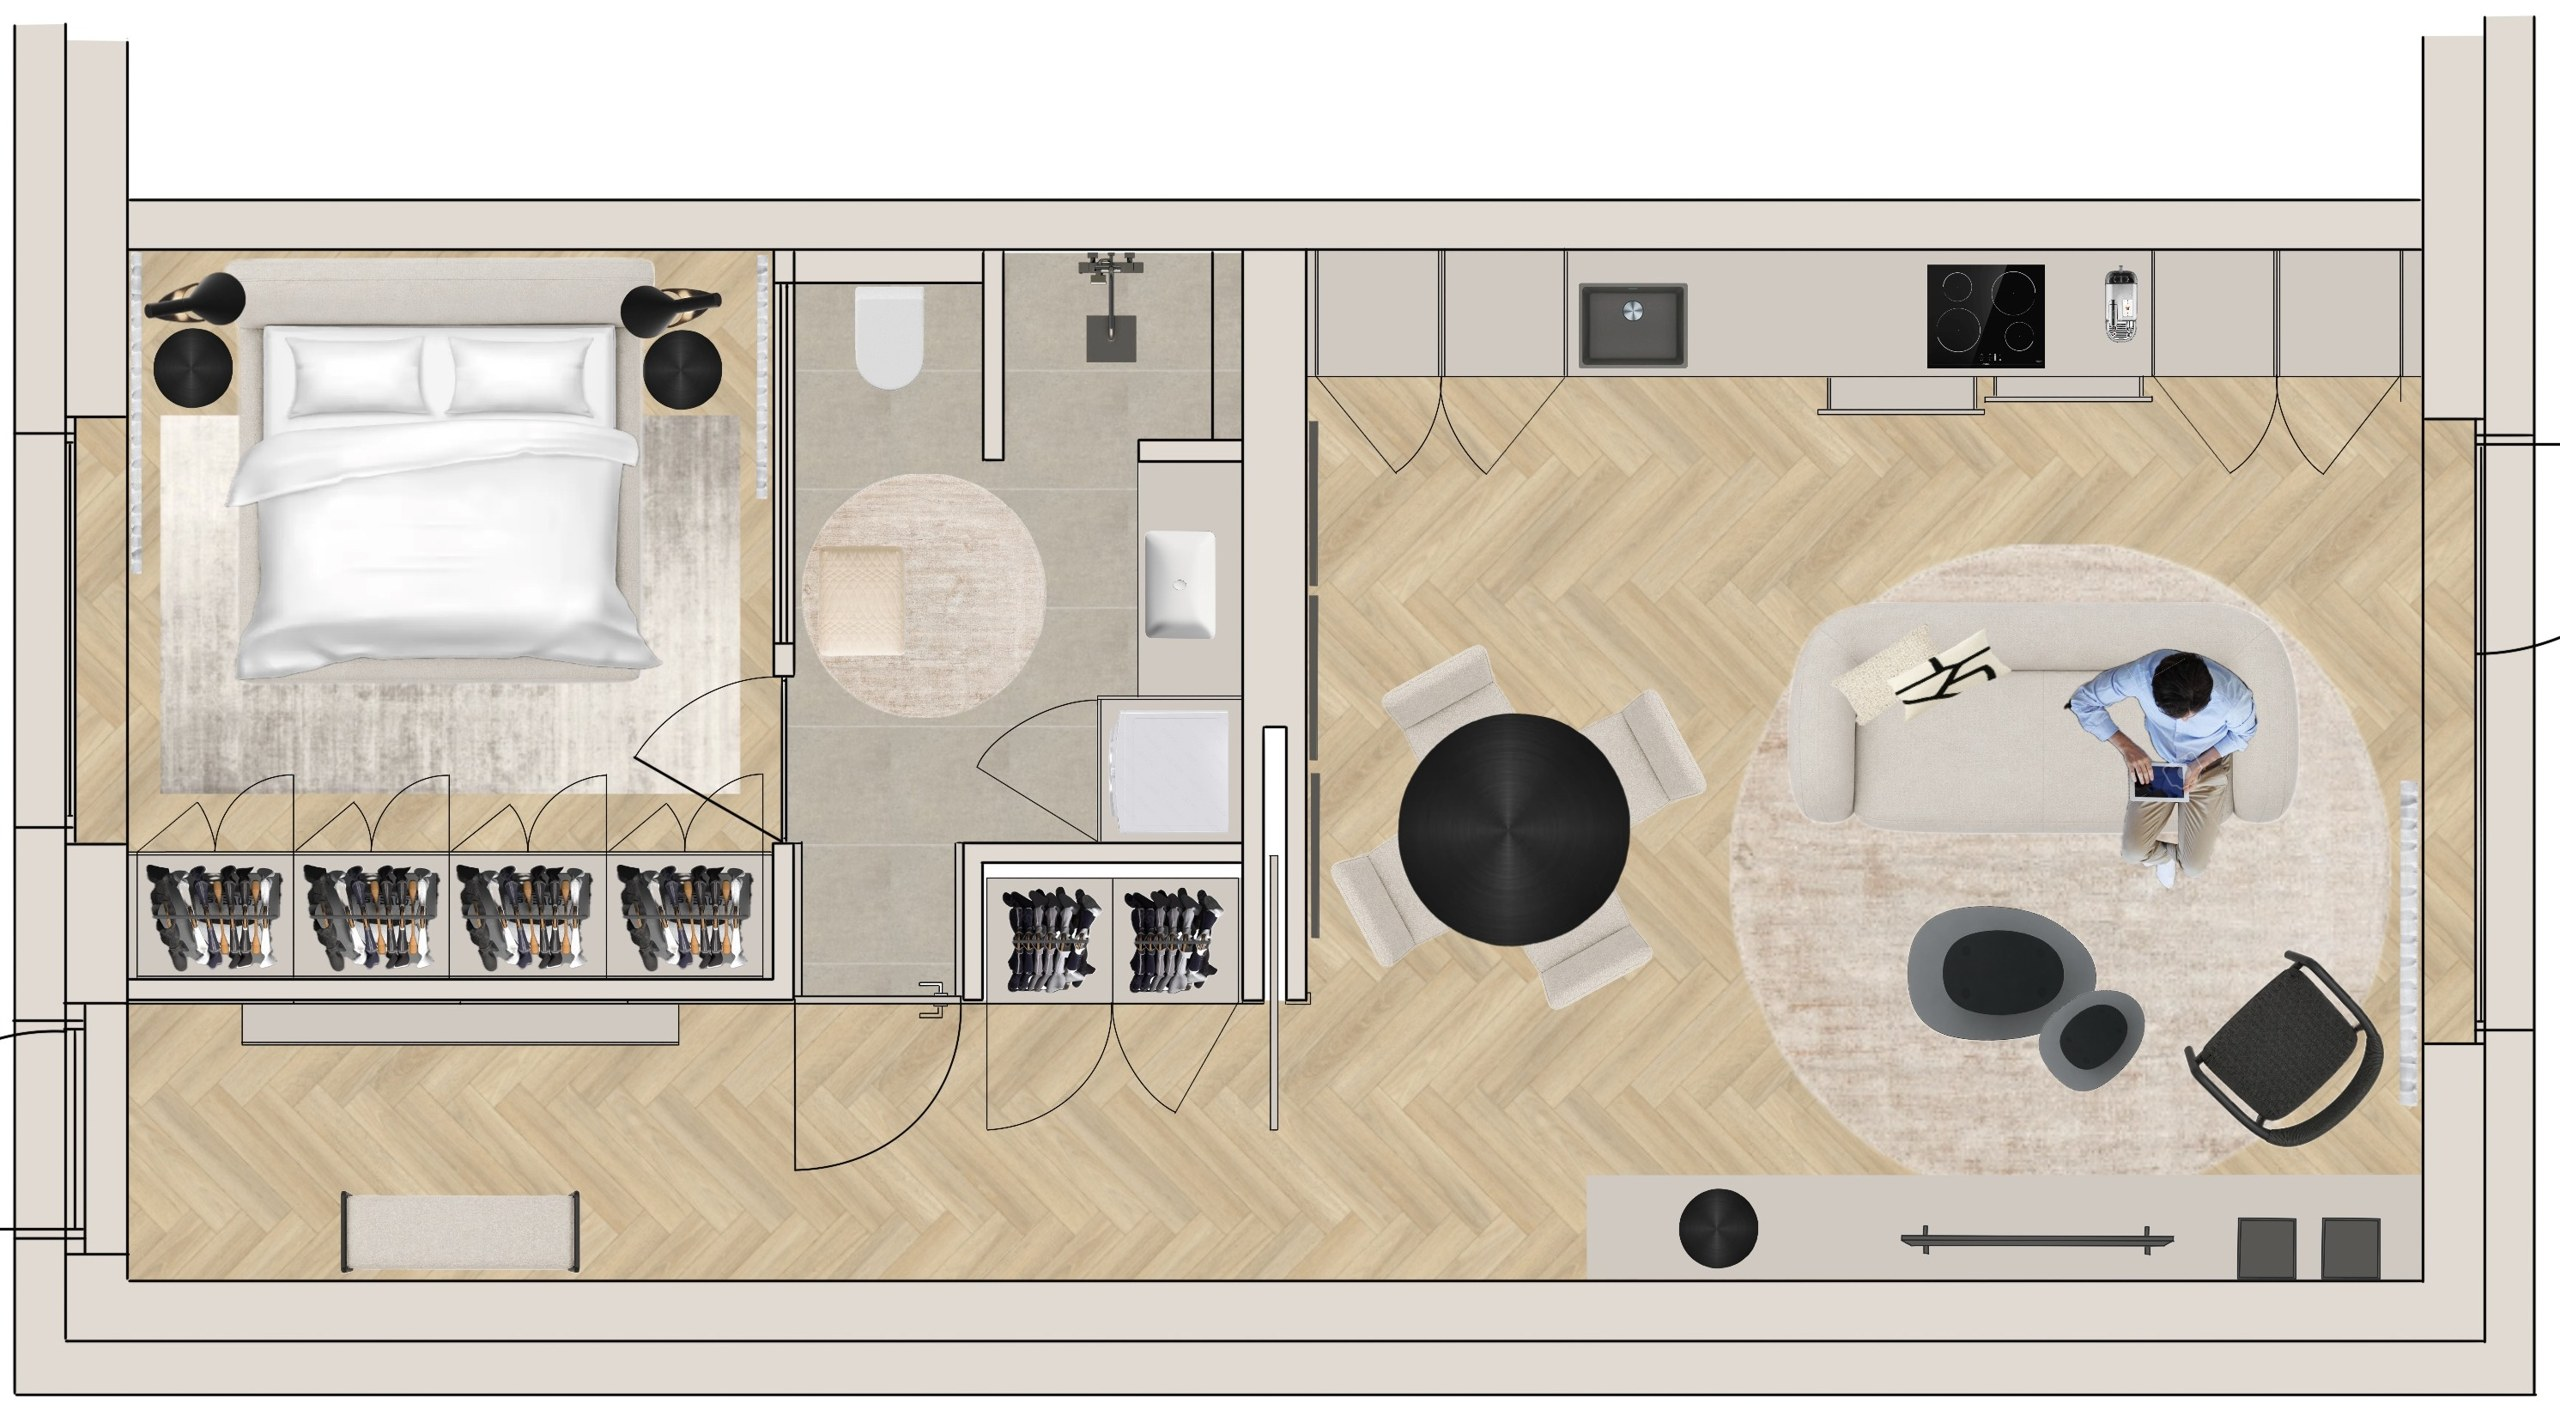
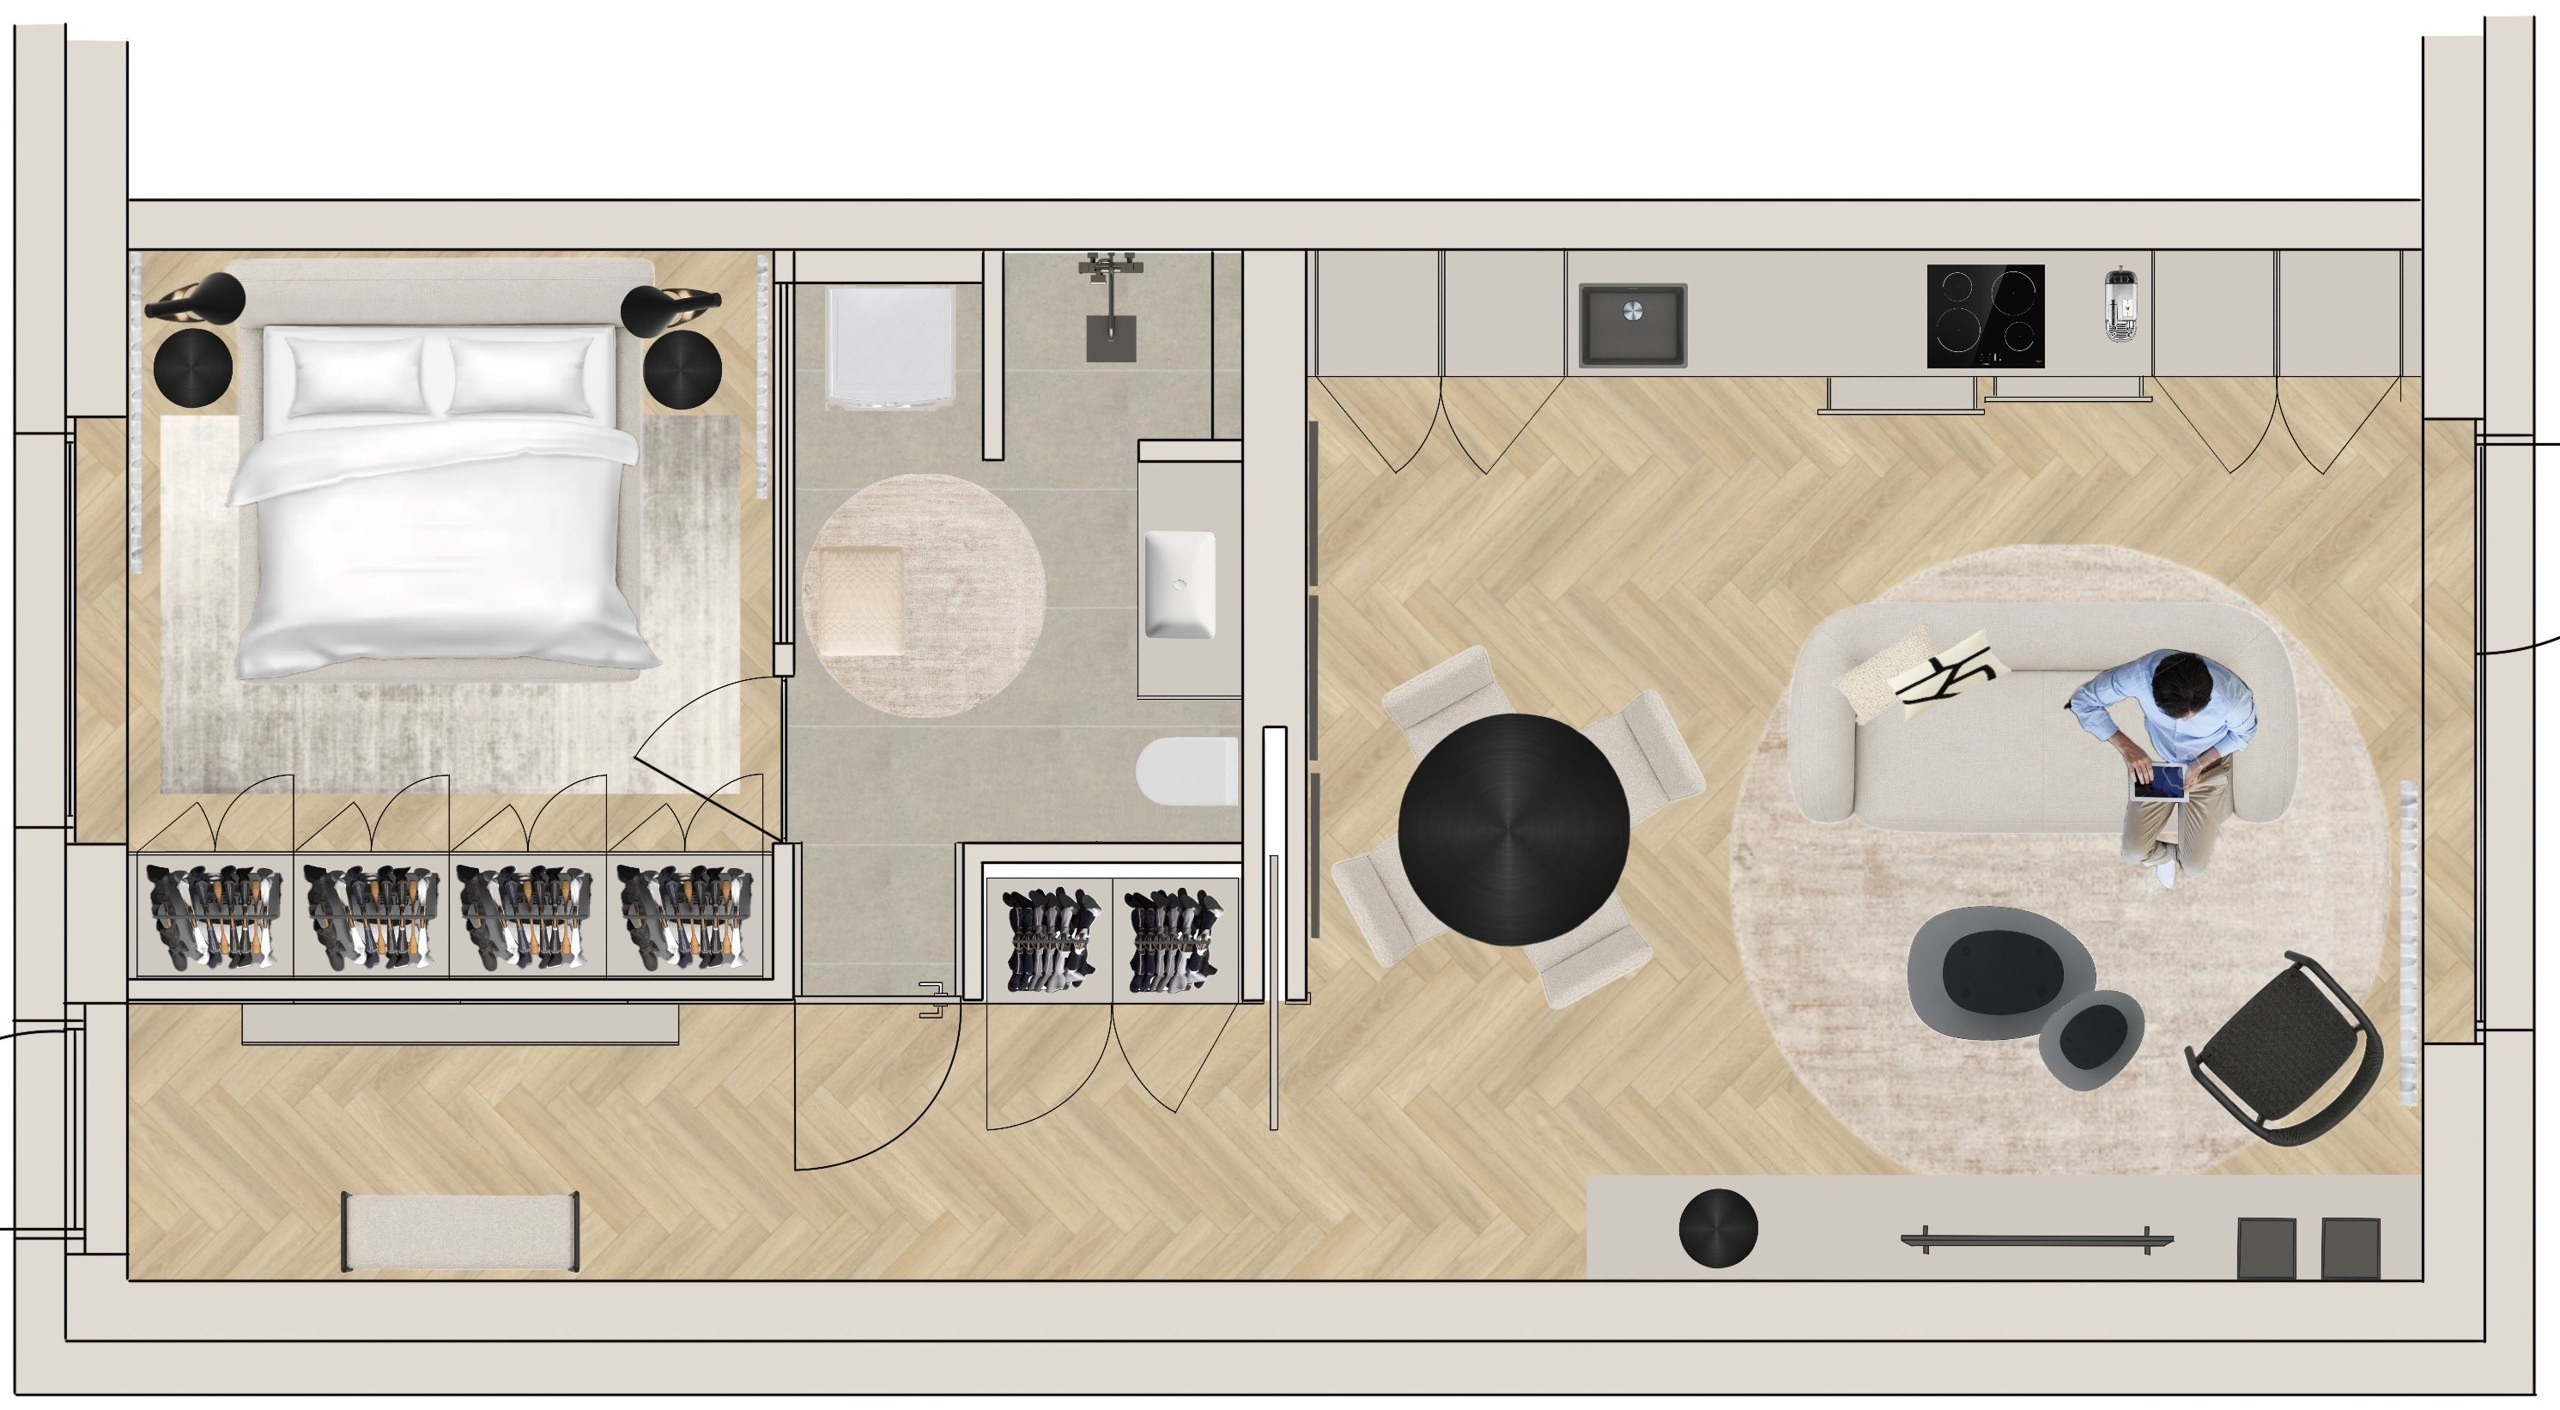
Půdorys: WC u dveří koupelny na stěně ke kuchyni podle výkresu architekta (byt 230), pračka na jeho místo; originál VDEKOR v _research

Changed region(s): [[0.4062, 0.4993, 0.5, 0.5929], [0.3125, 0.1872, 0.375, 0.3121]]

diff --git a/tools/wc_presun.py b/tools/wc_presun.py
@@ -1,0 +1,82 @@
+"""Přesun WC v půdorysu vzorového bytu Metelka podle výkresu architekta.
+WC jde k dveřím koupelny na stěnu ke kuchyni (místo skříně s pračkou),
+pračka na původní místo WC u stěny k sousedům."""
+import sys
+import numpy as np
+from PIL import Image, ImageFilter
+
+src, dst = sys.argv[1], sys.argv[2]
+im = Image.open(src).convert("RGB")
+OX, OY = 780, 250  # posun výřezu koupelny v plném obrázku
+a = np.array(im).astype(np.int16)
+
+
+def P(x, y):
+    return OX + x, OY + y
+
+
+def floor_fill(x0, y0, x1, y1, sx0, sy0, sx1, sy1):
+    """Vyplní obdélník dlažbou z čistého vzorku (zrcadlené dlaždění, bez švů)."""
+    X0, Y0 = P(x0, y0); X1, Y1 = P(x1, y1)
+    S = a[OY + sy0:OY + sy1, OX + sx0:OX + sx1].copy()
+    sh, sw = S.shape[:2]
+    for yy in range(Y0, Y1):
+        ry = (yy - Y0) % (2 * sh); ry = ry if ry < sh else 2 * sh - 1 - ry
+        for xx in range(X0, X1):
+            rx = (xx - X0) % (2 * sw); rx = rx if rx < sw else 2 * sw - 1 - rx
+            a[yy, xx] = S[ry, rx]
+
+
+def copy_rows(x0, x1, y0, y1, sx0, sy0):
+    """Spára dlažby: zkopíruje pruh řádků ze stejné výšky z čistého místa."""
+    w = x1 - x0
+    for i, xx in enumerate(range(x0, x1)):
+        sx = sx0 + (i % 150)
+        a[OY + y0:OY + y1, OX + xx] = a[OY + sy0:OY + sy0 + (y1 - y0), OX + sx]
+
+
+# sprity (před mazáním)
+toilet = im.crop((*P(66, 37), *P(153, 146)))
+washer = im.crop((*P(326, 456), *P(452, 587)))
+floor_ref = np.array(im.crop((*P(20, 480), *P(190, 590)))).reshape(-1, 3).mean(0)
+
+
+def sprite_mask(sp, thr):
+    """Maska předmětu podle odlišnosti od dlažby/podkladu."""
+    s = np.array(sp).astype(np.int16)
+    d = np.abs(s - floor_ref).sum(2)
+    m = Image.fromarray(((d > thr) * 255).astype(np.uint8))
+    return m.filter(ImageFilter.MaxFilter(3)).filter(ImageFilter.GaussianBlur(1))
+
+
+# 1) skříň s pračkou + oblouk dvířek -> dlažba
+orig = a.copy()
+floor_fill(190, 451, 461, 591, 20, 480, 190, 590)
+floor_fill(286, 443, 357, 451, 20, 480, 190, 590)
+# okraj koberce zachovat: v pásu nad spárou vrátit světlé pixely koberce
+for yy in range(OY + 443, OY + 472):
+    for xx in range(OX + 186, OX + 290):
+        if orig[yy, xx].sum() > 3 * 196:
+            a[yy, xx] = orig[yy, xx]
+copy_rows(190, 461, 474, 479, 20, 474)  # vodorovná spára dlažby
+
+# 2) původní WC -> dlažba
+floor_fill(64, 35, 156, 150, 20, 150, 200, 222)
+copy_rows(64, 156, 118, 123, 156, 118)
+
+out = Image.fromarray(a.clip(0, 255).astype(np.uint8))
+
+# 3) WC zády ke stěně u kuchyně (pravá stěna x=461), u dveří
+t = toilet.rotate(-90, expand=True)  # nádržka nahoře -> vpravo
+tm = sprite_mask(toilet, 60).rotate(-90, expand=True)
+tw, th = t.size
+out.paste(t, (OX + 458 - tw, OY + 521 - th // 2), tm)
+
+# 4) pračka na místo WC, čelem do koupelny
+w = washer.rotate(90, expand=True)  # čelo vlevo -> dolů
+wm = sprite_mask(washer, 70).rotate(90, expand=True)
+ww, wh = w.size
+out.paste(w, (OX + 110 - ww // 2, OY + 35), wm)
+
+out.save(dst, quality=93)
+print("ok", out.size)
